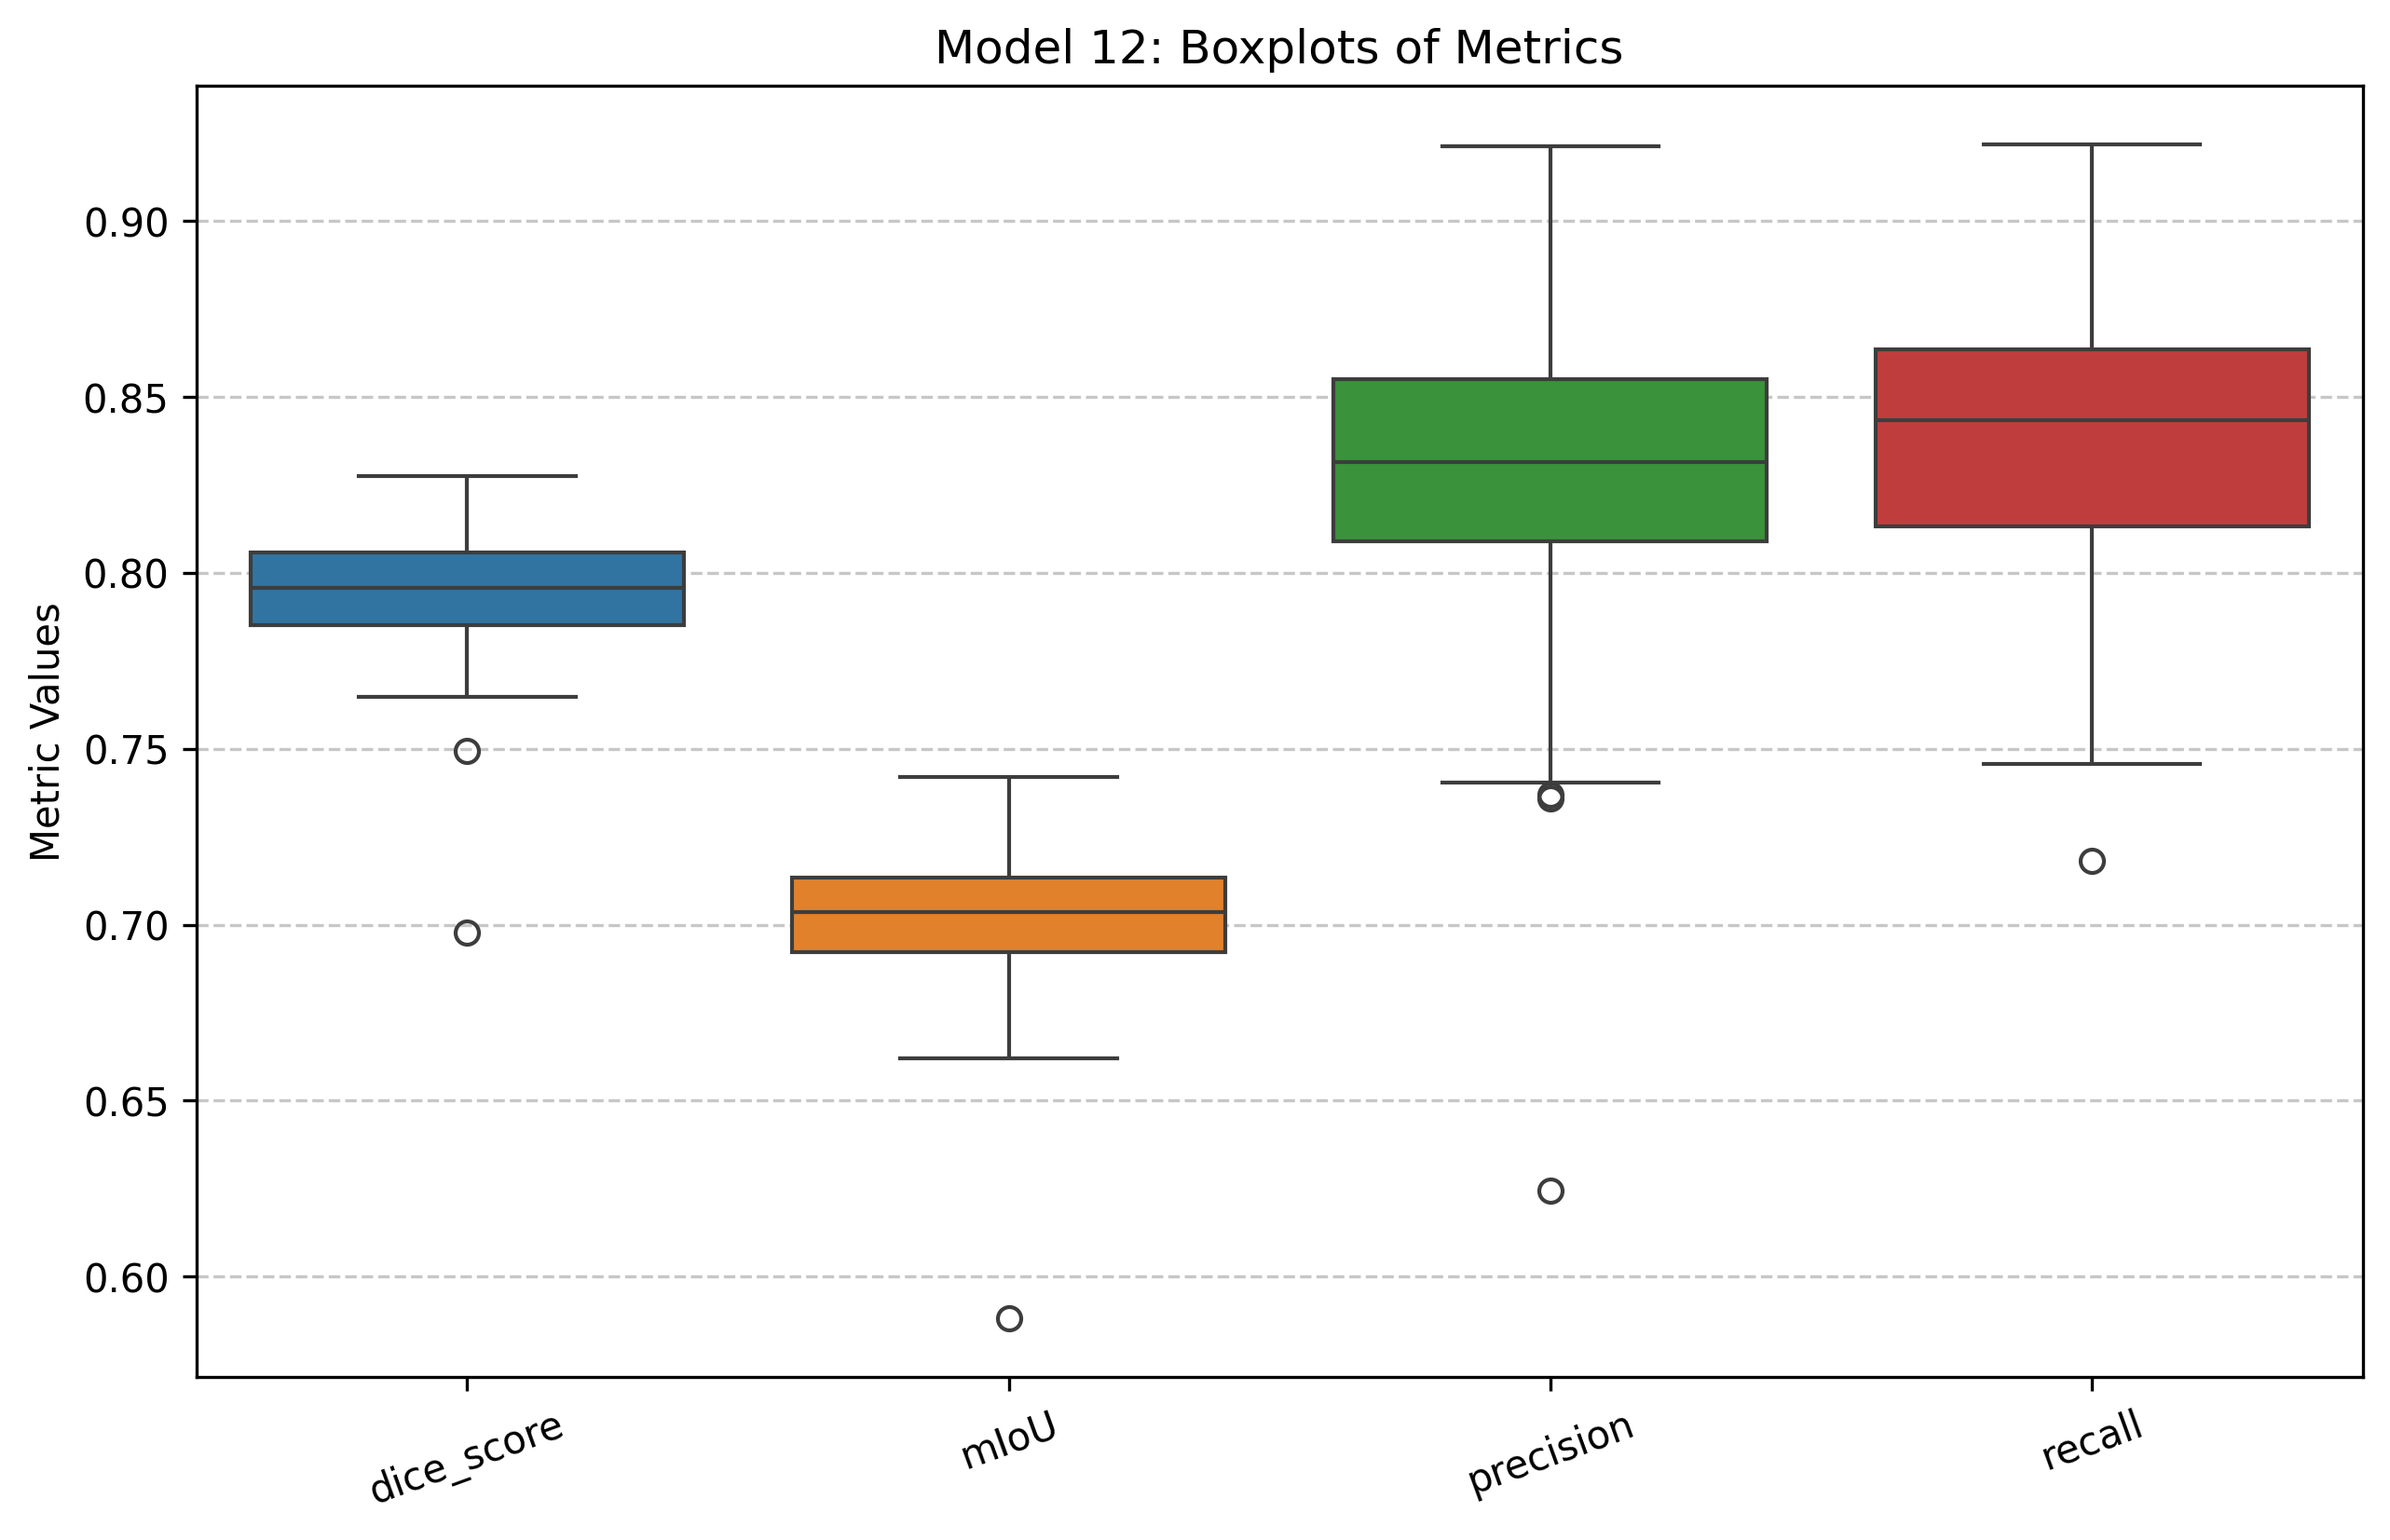
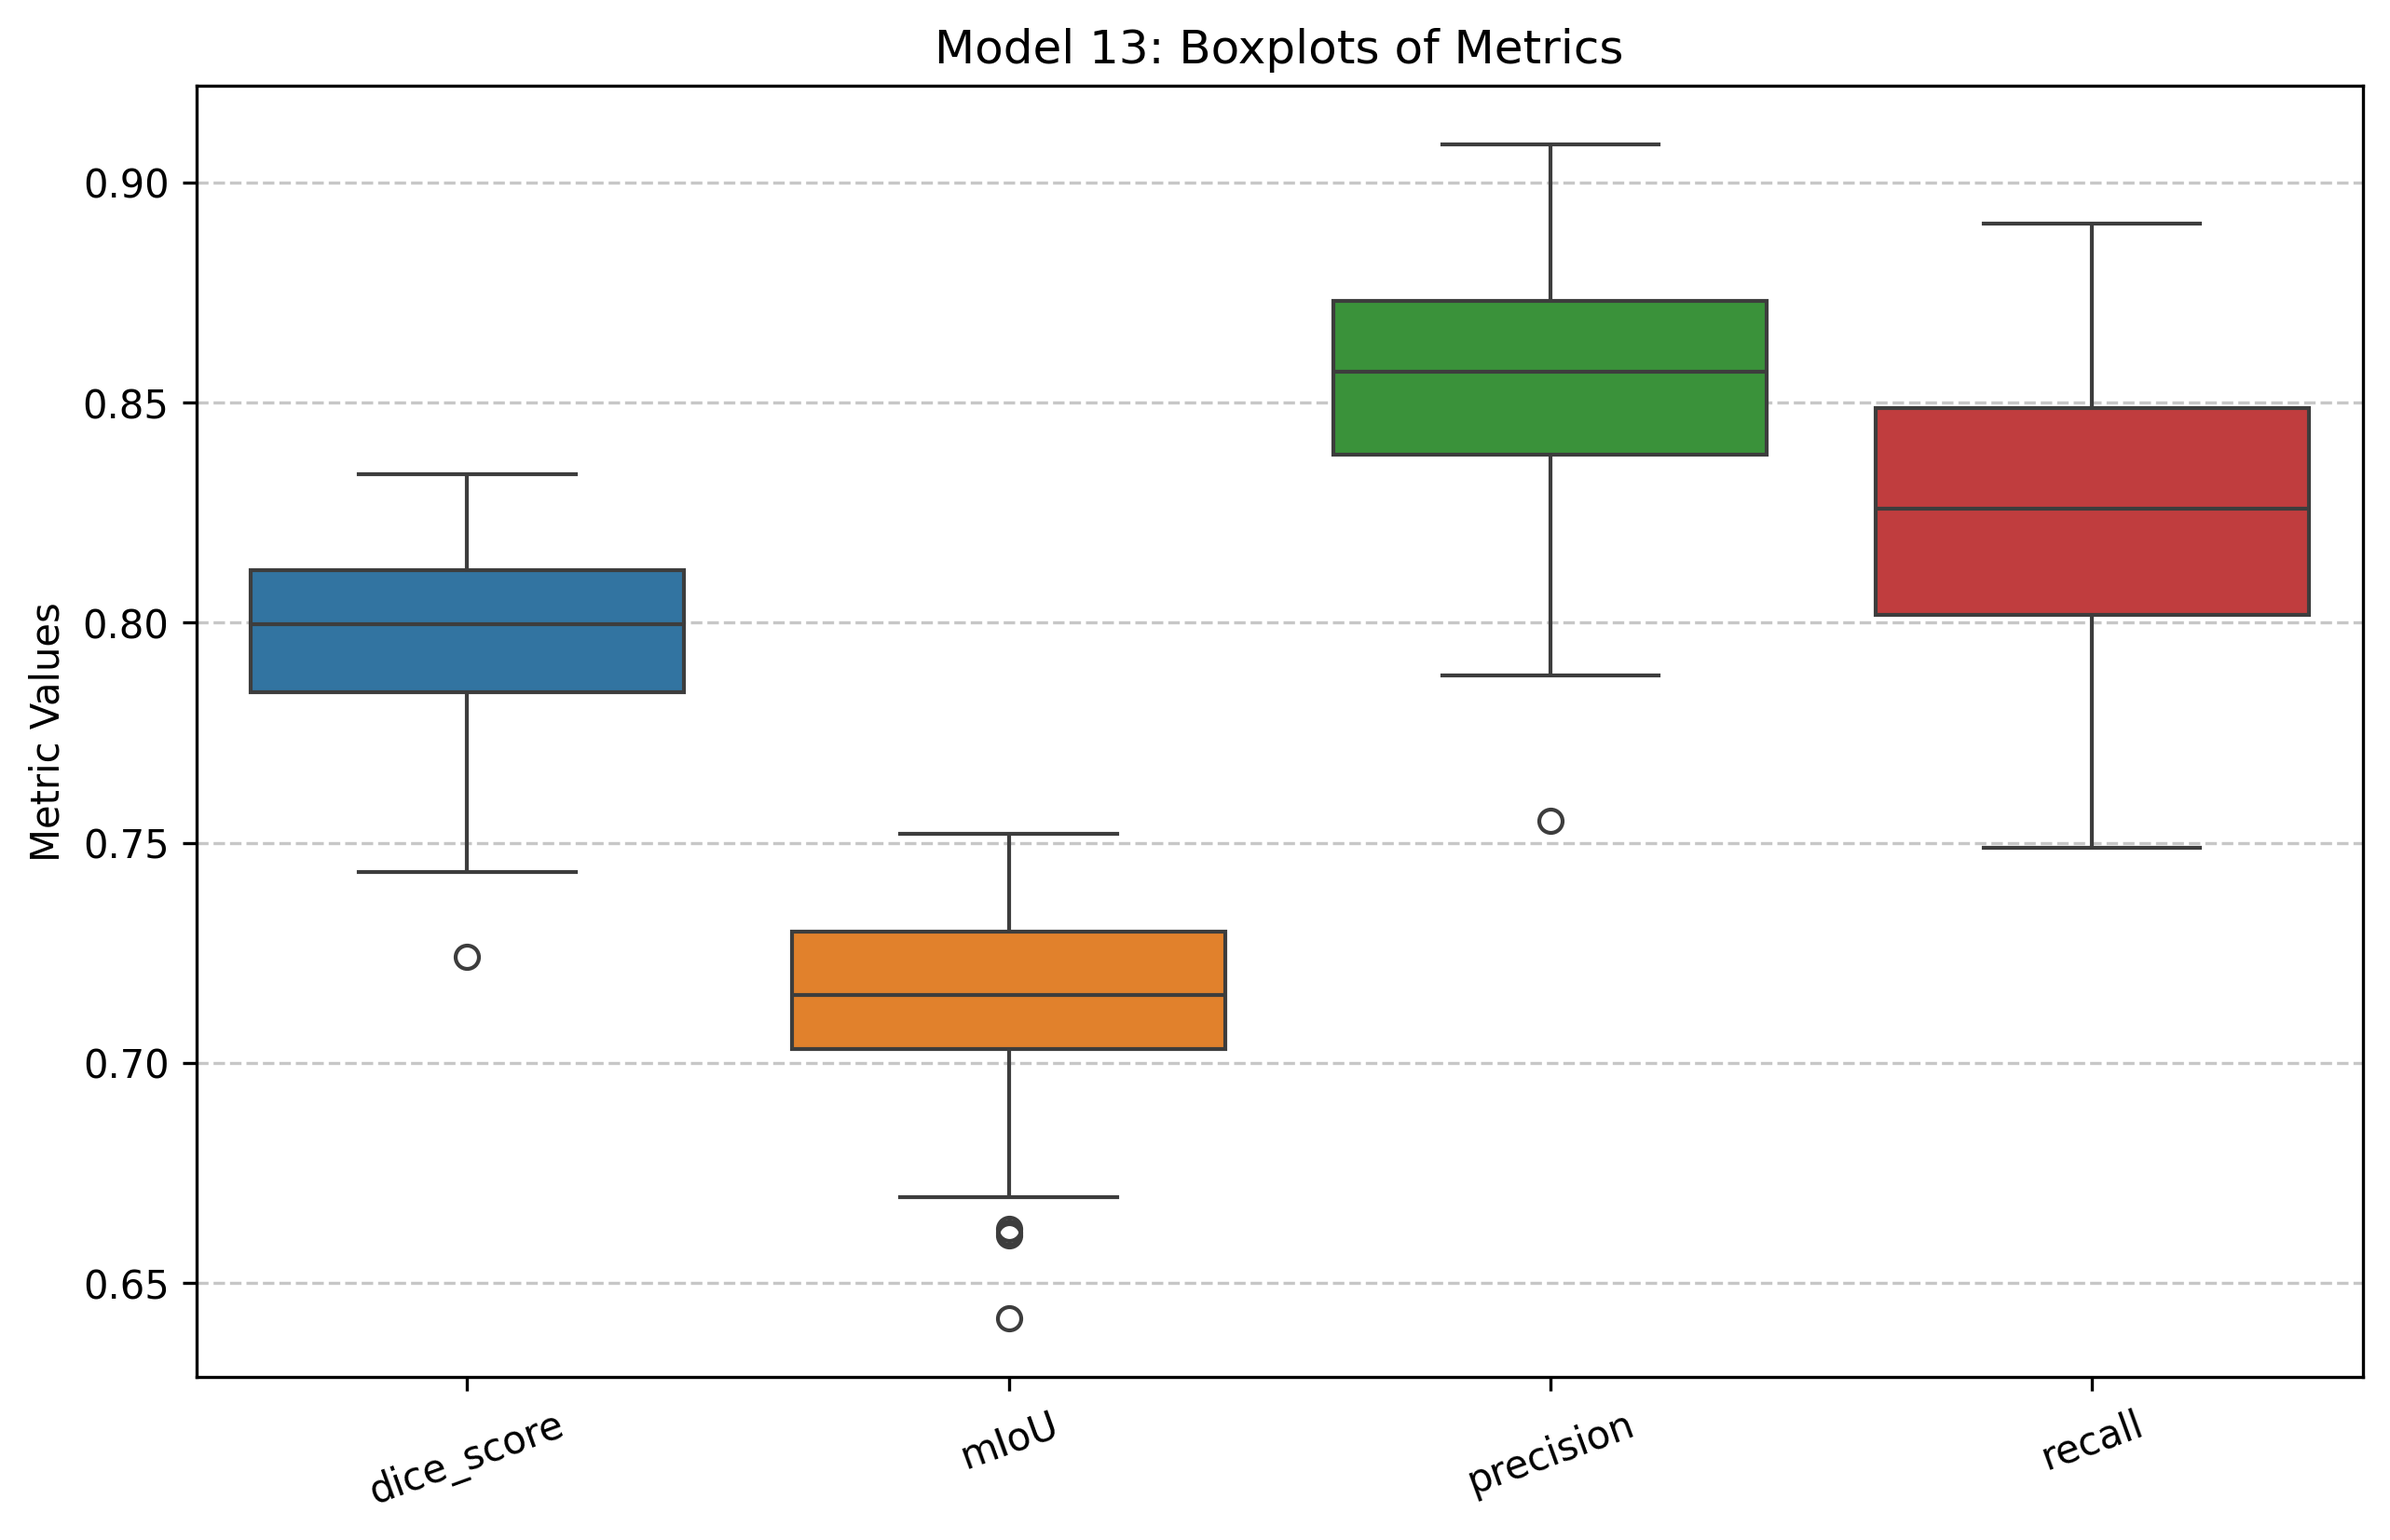
F13 results

diff --git a/analyse_results.py b/analyse_results.py
@@ -4,7 +4,7 @@ import matplotlib.pyplot as plt
 import seaborn as sns
 
 # File path
-file_path = "training_results_F12.txt"
+file_path = "training_results_F13.txt"
 
 # Updated regex pattern to extract the two dictionaries
 dict_pattern = re.compile(r"Run \d+: (\{.*?\}), Credible Intervals: (\{.*?\})")
@@ -66,7 +66,7 @@ def plot_boxplots(metrics, filename="boxplot.png"):
     sns.boxplot(data=[metrics[key] for key in metrics.keys()])
     plt.xticks(ticks=range(len(metrics.keys())), labels=list(metrics.keys()), rotation=20)
     plt.ylabel("Metric Values")
-    plt.title("Model 12: Boxplots of Metrics")
+    plt.title("Model 13: Boxplots of Metrics")
     plt.grid(axis="y", linestyle="--", alpha=0.7)
     # Save the figure
     plt.savefig(filename, bbox_inches="tight", dpi=300)
@@ -121,7 +121,7 @@ def plot_credible_intervals(runs, filename="credible_intervals.png"):
 
     plt.xlabel("Run Number")
     plt.ylabel("Metric Value")
-    plt.title("Model 12: Bayesian Credible Intervals Over Training Runs with Mean Values")
+    plt.title("Model 13: Bayesian Credible Intervals Over Training Runs with Mean Values")
     plt.legend(loc='upper left', bbox_to_anchor=(1.05, 1), borderaxespad=0.)
     plt.grid(True, linestyle="--", alpha=0.7)
     plt.savefig(filename, bbox_inches="tight", dpi=300)
